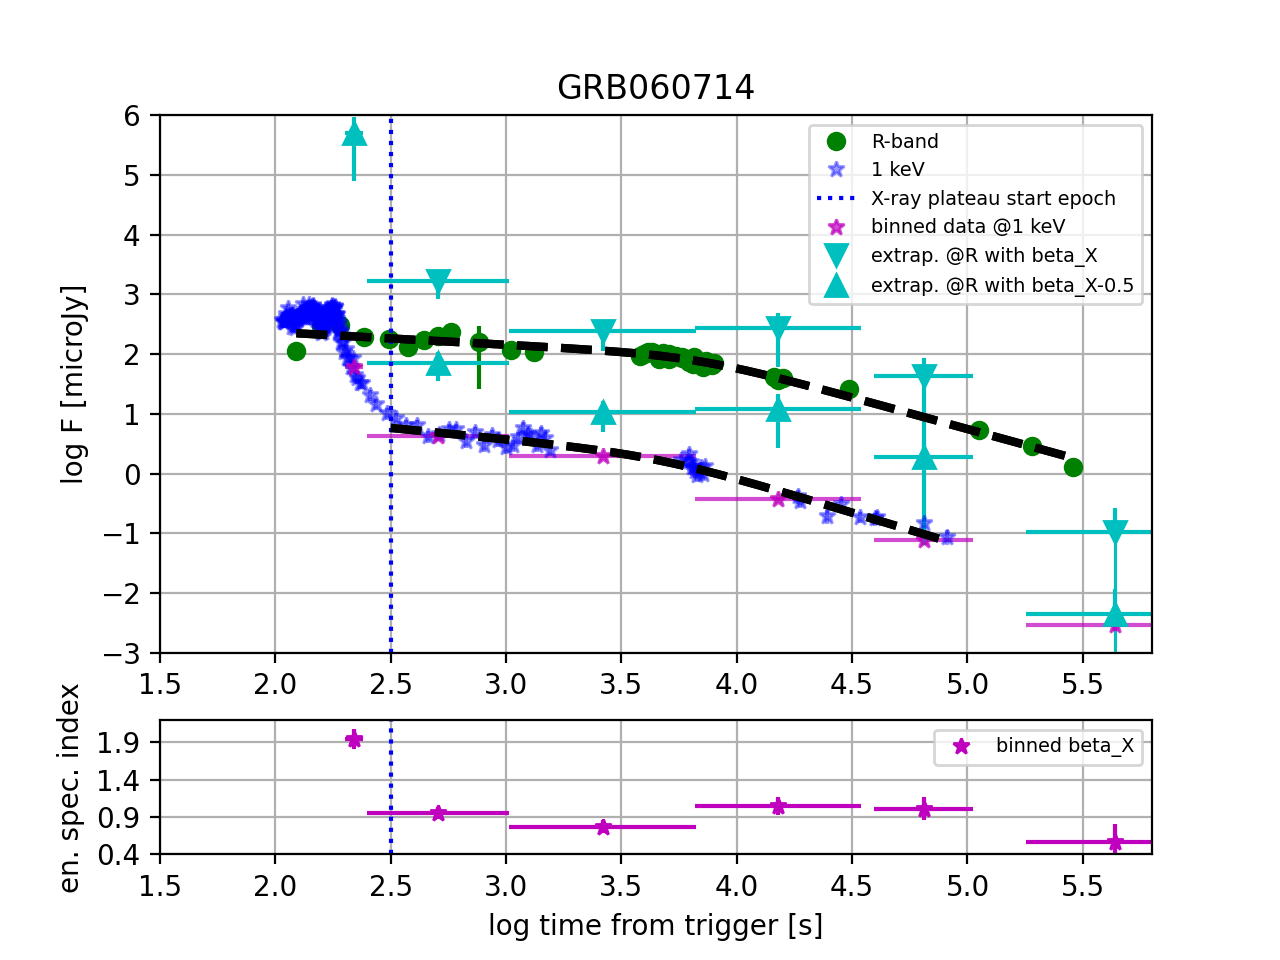
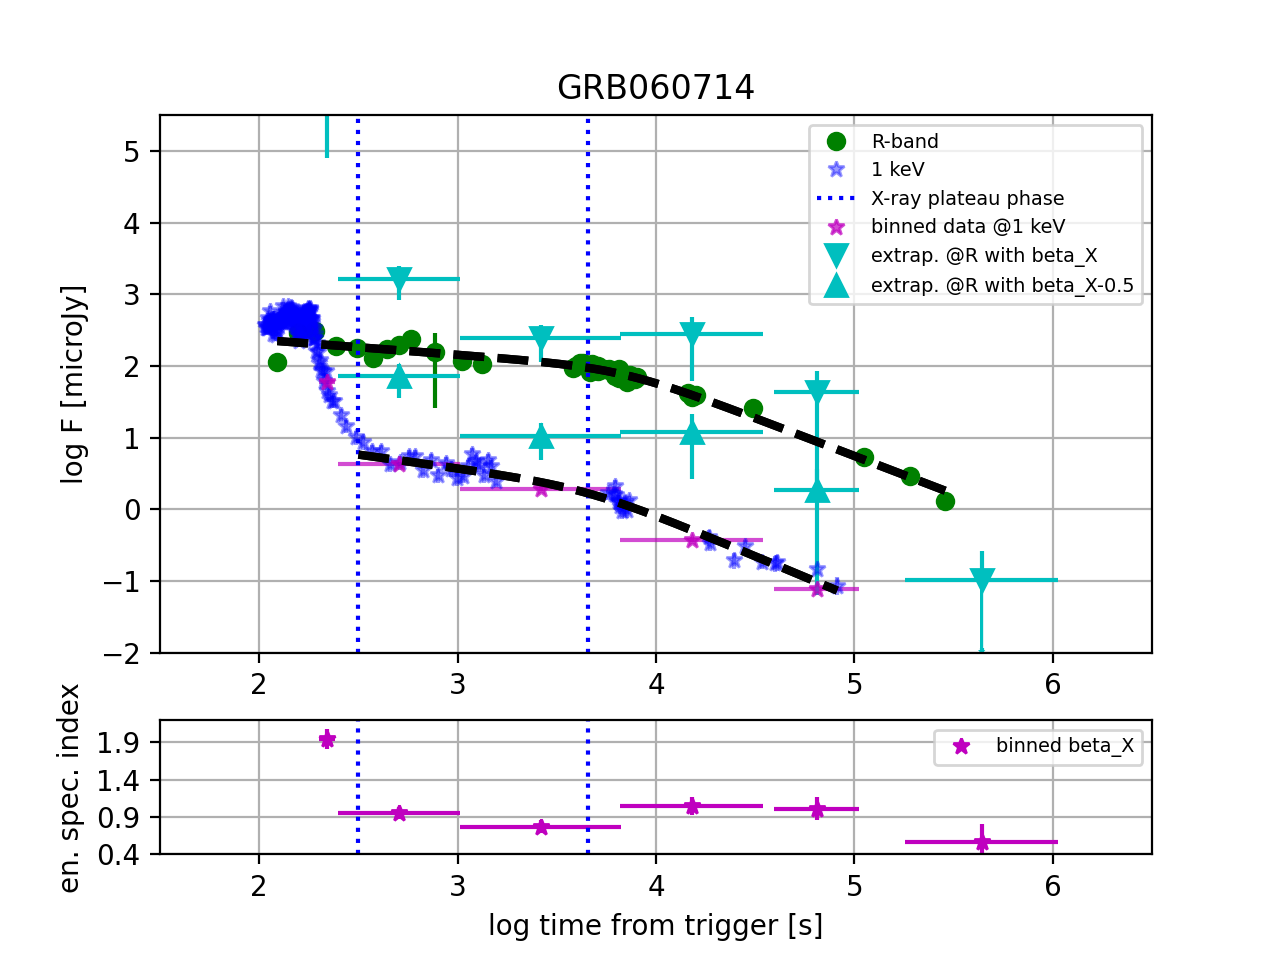
README,plot,table update

diff --git a/README.md b/README.md
@@ -3,23 +3,20 @@
 A repository for the study of the GRB afterglow plateau feature in X ray and optical bands (Stratta et al. 2022, Mem SAIT, in prep. )
 
 ## data
-This directory contains the results obtained from the spectro-temporal analysis performed on the afterglows of 34 GRBs with known redshifts, well monitored optical afterglows and clear evidence of an X-ray plateau.
+This directory contains the results obtained from the spectro-temporal analysis performed on the afterglows of 29 GRBs with known redshifts, well monitored optical afterglows and clear evidence of an X-ray plateau.
 
 
 
 
 ##### Light curves plot's caption:  
-*Top panel*: blue stars and green dots represent the afterglow X-ray and R-band flux density, respectively. Blue vertical dotted line marks the start of the X-ray plateau. Cyan down and up triangles mark the maximum and minimum flux density values extrapolated from X-rays assuming a simple power law with spectral index &beta;opt,x = &beta;x and &beta;opt,x = &beta;x-0.5, respectively. Magenta points represent the rebinned data where the X-ray spectral index was measured. Black dashed line is the best fit broken power law model. Note that the data used for the fit are only those  encompassed by the black dashed line, i.e. where the plateau and post-plateau phases are dominant.
+*Top panel*: blue stars and green dots represent the afterglow X-ray and R-band flux density, respectively. Blue vertical dotted lines mark the X-ray plateau phase. Cyan down and up triangles mark the maximum and minimum flux density values extrapolated from X-rays assuming a simple power law with spectral index &beta;opt,x = &beta;x and &beta;opt,x = &beta;x-0.5, respectively. Magenta points represent the rebinned data where the X-ray spectral index was measured. Black dashed line is the best fit broken power law model. Note that the data used for the fit are only those  encompassed by the black dashed line, i.e. where the plateau and post-plateau phases are dominant.
 
 *Bottom panel*: The X-ray spectral index &beta;x versus time. These indexes have been used to compute the maximum and minimum R-band flux densities (up and down cyan triangles in the top panel) by assuming a simple power law spectrum with index &beta;opt,x = &beta;x and &beta;opt,x = &beta;x-0.5
 
 
-##### Plateau duration comparison plot's caption:
-This plot shows a comparison of the best fit broken power law temporal breaks obtained from optical and X-ray data. The temporal breaks are an estimate of the plateau durations and are computed in the GRB rest frame. On the vertical(horizontal) axis an histogram shows the distribution of the temporal breaks obtained from optical(X-ray) data.  
-
 
 ##### Best fit parameter tables:
-The three .txt files contains the broken power law model best fit parameters obtained for the X-ray light curves belonging to both the "silver" and "golden" subsamples, and for the optical ones belonging to the "golden sample" only (i.e. with smoothed light curves well approximated by a simple or a broken power law). 
+The three .txt files contains the broken power law model best fit parameters obtained for the X-ray light curves belonging to both the "silver" and "golden" subsamples, and for the optical ones belonging to the "golden sample" only (i.e. with smoothed light curves well approximated by a simple or a broken power law).
 
 
 
